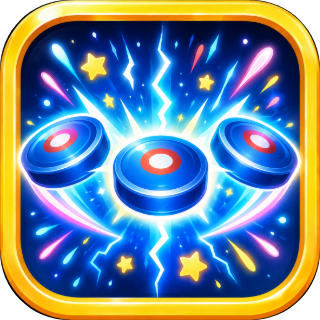
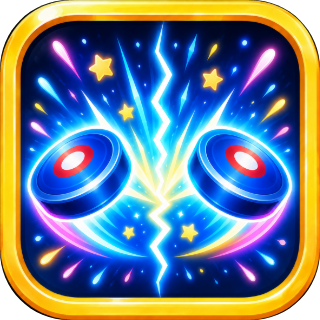
ぶんれつを2枚射出にして、アイコンを差し替えた
- 3つ→2つに変更。本体を左へ、もう1枚を右へ振って、ハの字に飛ばす
- 開きは片側8.6度にひかえめにして、まっすぐ打てば2つとも
  ゴール口をねらえるようにした（広げると2つとも網をはずれるため）
- 必殺技アイコンを2枚のパックの絵に差し替え
- 構えの分身は、実際の角度より広めに描いて分かりやすくした

Claude-Session: https://claude.ai/code/session_01J1tKvnQEzfrTpRt6QKbNhq

diff --git a/index.html b/index.html
@@ -30,7 +30,7 @@
   'use strict';
 
   // 更新したら必ずここと sw.js の CACHE を上げる
-  var APP_VERSION = '3.7.1';
+  var APP_VERSION = '3.8.0';
 
   var cvs = document.getElementById('g');
   var ctx = cvs.getContext('2d');
@@ -193,11 +193,13 @@
   var charge     = [0, 0];
   var zap        = [0, 0];   // しびれの残り時間
 
-  // 必殺技その2「3つに分かれる」
-  var SPLIT_ANG  = 0.34;     // 分かれたパックが開く角度
+  // 必殺技その2「2つに分かれる」
+  // 開きすぎると2つとも網をはずれてしまうので、
+  // まっすぐ打ったときに両方がゴール口の左右をねらえる角度にしてある
+  var SPLIT_ANG  = 0.15;     // 分かれたパックが左右に開く角度（片側ぶん）
   var SPLIT_LIFE = 7.0;      // 分かれたパックが消えるまでの秒数
   var armSplit   = [0, 0];   // 「つぎに打ったら分かれる」構え
-  var extras     = [];       // 分かれたパック（本体は mainPuck）
+  var extras     = [];       // 増えたぶんのパック（本体は mainPuck）
   var splitOwner = -1;       // 分裂を出した人。この人のゴールはフタがされる
   var splitFx    = null;     // 分かれた瞬間の光
   var pressIdx   = -1;       // 押されたボタン
@@ -364,7 +366,7 @@
     [660, 990, 1320].forEach(function (f, i) { beep(f, 0.13, 'triangle', 0.15, i * 0.07); });
   }
 
-  // パックが3つに分かれるときの「シャキーン！」
+  // パックが2つに分かれるときの「シャキーン！」
   function sndSplit() {
     [880, 1175, 1568].forEach(function (f, i) { beep(f, 0.17, 'square', 0.15, i * 0.05); });
     beep(220, 0.30, 'sawtooth', 0.13, 0.02);
@@ -625,7 +627,7 @@
       return;
     }
 
-    // 必殺技ボタン（3つたまっているときだけ反応する）。左右で技を選べる
+    // 必殺技ボタン（ほしが3つたまっているときだけ反応する）。2つから技を選べる
     if (mode === 'play') {
       for (var sk = 0; sk < 2; sk++) {
         if (charge[sk] < STAR_NEED) continue;
@@ -840,7 +842,7 @@
   function skillR() { return Math.min(F.w * 0.075, F.h * 0.045); }
 
   // 集めた数と必殺技ボタンを置く場所。2つとも自陣の左はしにたてに並べる。
-  // kind 0 = しびれさせる技（下）/ kind 1 = 3つに分かれる技（その上）。
+  // kind 0 = しびれさせる技（下）/ kind 1 = 2つに分かれる技（その上）。
   // 上下どちらの人から見ても、自分の左に同じ並びで見える
   function skillBtnPos(side, kind) {
     var up = (kind === 1) ? skillR() * 2.6 : 0;
@@ -932,7 +934,7 @@
     }
   }
 
-  // kind 0 = 相手をしびれさせる / kind 1 = つぎに打ったパックが3つに分かれる
+  // kind 0 = 相手をしびれさせる / kind 1 = つぎに打ったパックが2つに分かれる
   function fireSkill(side, kind) {
     charge[side] = 0;
     starWait[side] = STAR_MIN + Math.random() * (STAR_MAX - STAR_MIN);
@@ -957,27 +959,31 @@
     if (navigator.vibrate) { try { navigator.vibrate([40, 50, 40, 50, 90]); } catch (e) {} }
   }
 
-  // 打った瞬間にパックが3つに分かれる
+  // 打った瞬間にパックが2つに分かれる。
+  // 本体を左へ振り、右へもう1枚出して、きれいなハの字に飛ばす
   function doSplit(side) {
     armSplit[side] = 0;
     var sp = Math.sqrt(puck.vx * puck.vx + puck.vy * puck.vy);
     var base = Math.atan2(puck.vy, puck.vx);
-    for (var i = 0; i < 2; i++) {
-      var a = base + (i === 0 ? -SPLIT_ANG : SPLIT_ANG);
-      var cx = Math.cos(a), cy = Math.sin(a);
-      var e = {
-        x: puck.x + cx * puck.r * 0.8, y: puck.y + cy * puck.r * 0.8,
-        vx: cx * sp, vy: cy * sp, r: puck.r, t: 0, trail: []
-      };
-      e.x = clamp(e.x, F.x + e.r, F.x + F.w - e.r);
-      e.y = clamp(e.y, F.y + e.r, F.y + F.h - e.r);
-      extras.push(e);
-    }
+    var ox = puck.x, oy = puck.y;
+
+    var la = base - SPLIT_ANG;
+    puck.vx = Math.cos(la) * sp; puck.vy = Math.sin(la) * sp;
+    puck.x = clamp(ox + Math.cos(la) * puck.r * 0.8, F.x + puck.r, F.x + F.w - puck.r);
+    puck.y = clamp(oy + Math.sin(la) * puck.r * 0.8, F.y + puck.r, F.y + F.h - puck.r);
+
+    var ra = base + SPLIT_ANG;
+    var e = {
+      x: clamp(ox + Math.cos(ra) * puck.r * 0.8, F.x + puck.r, F.x + F.w - puck.r),
+      y: clamp(oy + Math.sin(ra) * puck.r * 0.8, F.y + puck.r, F.y + F.h - puck.r),
+      vx: Math.cos(ra) * sp, vy: Math.sin(ra) * sp, r: puck.r, t: 0, trail: []
+    };
+    extras.push(e);
     splitOwner = side;
-    splitFx = { x: puck.x, y: puck.y, t: 0, life: 0.45 };
+    splitFx = { x: ox, y: oy, t: 0, life: 0.45 };
     shake = Math.max(shake, 0.85);
     flash = Math.max(flash, 0.7);
-    burst(puck.x, puck.y, 24, F.w * 1.4);
+    burst(ox, oy, 24, F.w * 1.4);
     sndSplit();
     if (navigator.vibrate) { try { navigator.vibrate([35, 35, 35, 35, 70]); } catch (e) {} }
   }
@@ -1107,8 +1113,8 @@
     return false;
   }
 
-  // パックが3つに分かれているあいだは、出した人のゴールにフタをする。
-  // 自分の技で自分が損をしないようにするため（3つとも跳ね返る）
+  // パックが2つに分かれているあいだは、出した人のゴールにフタをする。
+  // 自分の技で自分が損をしないようにするため（2つとも跳ね返る）
   function goalShut(scorer) {
     return splitOwner >= 0 && extras.length > 0 && scorer === 1 - splitOwner;
   }
@@ -1196,7 +1202,7 @@
     else                   sndHit(power);
     buzz(power);
 
-    // 「つぎの1発で分かれる」構えなら、打ったこの瞬間に3つになる。
+    // 「つぎの1発で分かれる」構えなら、打ったこの瞬間に2つになる。
     // ただし相手のゴールに向かって打てたときだけ。自分のゴールへ戻す
     // 当たりでは出さずに、構えたまま次の攻撃を待つ
     if (armSplit[m.side] && extras.length === 0 && mode === 'play') {
@@ -1609,7 +1615,7 @@
     ctx.restore();
   }
 
-  // 構えているあいだ、パックの左右にうすい分身を出して「分かれるよ」と見せる
+  // 構えているあいだ、パックの左右にうすい分身を出して「2つに分かれるよ」と見せる
   function drawSplitReady(t) {
     if (!armSplit[0] && !armSplit[1]) return;
     var sp = Math.sqrt(mainPuck.vx * mainPuck.vx + mainPuck.vy * mainPuck.vy);
@@ -1618,7 +1624,8 @@
     ctx.save();
     ctx.globalAlpha = 0.32 + Math.sin(t * 5) * 0.10;
     for (var i = 0; i < 2; i++) {
-      var a = base + (i === 0 ? -SPLIT_ANG * 2.2 : SPLIT_ANG * 2.2);
+      // 見せるための開きは、実際の角度より広めにして分かりやすくする
+      var a = base + (i === 0 ? -0.5 : 0.5);
       var gx = mainPuck.x + Math.cos(a) * d, gy = mainPuck.y + Math.sin(a) * d;
       var img = imgs['puck' + stageIdx];
       if (img) { var s = mainPuck.r * 2.37; ctx.drawImage(img, gx - s / 2, gy - s / 2, s, s); }

diff --git a/sw.js b/sw.js
@@ -1,6 +1,6 @@
 /* オフラインでも遊べるようにキャッシュする。
    中身を更新したら CACHE の番号と index.html の APP_VERSION を必ず上げること。 */
-var CACHE = 'hockey-v36';
+var CACHE = 'hockey-v37';
 
 var ASSETS = [
   './',

diff --git a/README.md b/README.md
@@ -38,7 +38,7 @@
 | ボタン | 技 | どうなるか |
 | --- | --- | --- |
 | 下（雷） | **しびれ** | 相手のマレットを3秒間動けなくする |
-| 上（3つのパック） | **ぶんれつ** | つぎに自分が打った1発で、パックが3つに分かれる |
+| 上（2つのパック） | **ぶんれつ** | つぎに自分が打った1発で、パックが2つに分かれる |
 
 上下どちらの席から見ても、いつも**自分の左**に同じ並びで出ます。
 2つが近いので、押した指にいちばん近い方の技が出るようにしています。
@@ -46,12 +46,14 @@
 - **しびれ**は、発動すると**相手に雷が落ち、当たったところから左右に雷が走ります**。
   しびれている間は、相手のマレットが雷をまとって小刻みに震えます
 - **ぶんれつ**は押してもすぐには出ません。**つぎに自分がパックを打った瞬間**に
-  左右へ広がる3つのパックになります。構えているあいだは、パックのそばに
+  左右へハの字に広がる2つのパックになります。構えているあいだは、パックのそばに
   うすい分身が2つ見えるので分かります
+- 開きはひかえめにしてあるので、まっすぐ打てば**2つともゴール口をねらいます**
+  （相手のマレットは片方しか止められません）
 - 出るのは**相手のゴールに向かって打てたときだけ**です。自分のゴールへ
   戻してしまう当たりでは出ず、構えたまま次の攻撃を待ちます
 - 分かれているあいだは、**自分のゴールに光るフタがかかります**。
-  3つとも自分のゴールには入らないので、**使って損をすることはありません**
+  2つとも自分のゴールには入らないので、**使って損をすることはありません**
 - 分かれたパックは**どれが入っても得点**になります。7秒ほどで消えて、もとの1つに戻ります
   （フタもいっしょに消えます）
 - ひとりで遊ぶときは、コンピューターはほしを集めず、必殺技も使いません（自分だけが使えます）
@@ -116,7 +118,7 @@
 
 ## バージョンと自動更新
 
-タイトル画面の**左下に小さくバージョン**が出ます（例 `v3.7.1`）。
+タイトル画面の**左下に小さくバージョン**が出ます（例 `v3.8.0`）。
 更新したかどうかは、ここを見れば分かります。
 
 更新はできるだけ早く届くようにしてあります。
@@ -139,7 +141,7 @@
 | ファイル | 場所 |
 | --- | --- |
 | `index.html` | `APP_VERSION`（画面左下に出る番号） |
-| `sw.js` | `CACHE`（`hockey-v36` の数字） |
+| `sw.js` | `CACHE`（`hockey-v37` の数字） |
 
 ## 中身
 
@@ -211,7 +213,7 @@ var STAGES = [
 | `STAR_NEED` | 必殺技に必要なほしの数 | `3` |
 | `STAR_MIN` / `STAR_MAX` | 次のほしが出るまでの秒数 | `4.5` / `8.5` |
 | `ZAP_TIME` | 相手がしびれている秒数 | `3.0` |
-| `SPLIT_ANG` | 分かれたパックが左右に開く角度（ラジアン） | `0.34` |
+| `SPLIT_ANG` | 分かれたパックが左右に開く角度（片側ぶん・ラジアン）。<br>広げすぎると2つとも網をはずれるので注意 | `0.15` |
 | `SPLIT_LIFE` | 分かれたパックが消えるまでの秒数 | `7.0` |
 | `GOAL_TIME` | ゴール演出の長さ（秒） | `1.6` |
 | `AR_MAX` / `AR_MIN` | 盤面の縦横比の上限・下限 | `0.60` / `0.40` |
